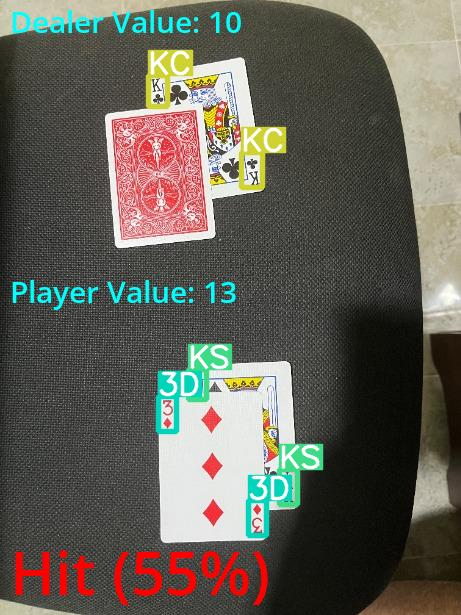
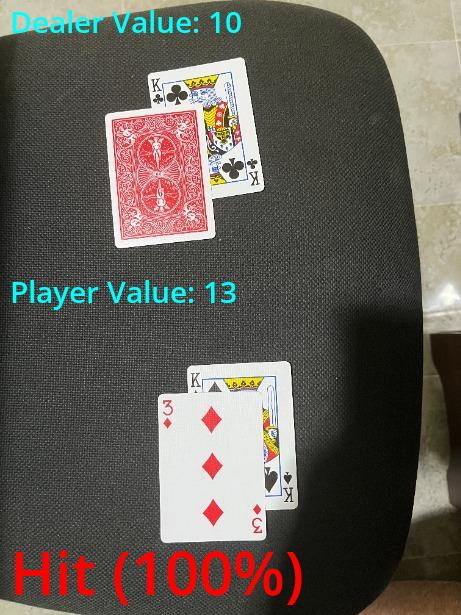
updated strategy

diff --git a/main.py b/main.py
@@ -1,9 +1,12 @@
+import shutil
+import os
+import base64
+import uuid
+import csv
+
 import flask
 from ultralytics import YOLO
 from ultralytics.yolo.v8.detect.predict import DetectionPredictor
-
-import shutil
-import os
 
 from flask import Flask, render_template, request, redirect, url_for, send_from_directory
 from flask import send_file
@@ -16,11 +19,10 @@ from PIL import Image
 from PIL import ImageDraw
 from PIL import ImageFont
 
-import base64
 
-import uuid
 
-model = YOLO("https://nitheesh.software/file/model.pt")
+
+model = YOLO("model.pt")
 # model.predict(source="2", show=True, conf=0.2)
 
 # Q: How do I see the x and y coordinates of the bounding boxes?
@@ -100,52 +102,76 @@ def predict(image):
         decision = "Blackjack!"
         percent = 100
 
-    if('A' in player_hand):
-        if(player_value >= 19):
-            decision = "Stand"
-            percent = 100
-        elif(player_value == 18 and dealer_value < 9):
-            decision = "Stand"
-            percent = 100
-        elif(player_value == 18 and dealer_value >= 9):
-            decision = "Hit"
-            percent = 100
-        else:
-            decision = "Hit"
-            percent = 100
+    # check strategy.csv for decision
+    # if player has an ace, check if it's soft or hard
 
-    else:
-        if(player_value > 11 and player_value < 17 and dealer_value >= 10):
-            # determine percentage of next card not busting
-            percent = 0
-            for card in deck:
-                if player_value + card_value(card) <= 21:
-                    percent += 1
-            percent = percent / len(deck) * 100
-            percent = round(percent)
-            if percent > 50:
-                decision = "Hit"
-            else:
-                decision = "Stand"
-                percent = 100 - percent
+    hard = False
+    for card in player_hand:
+            if card == 'A':
+                hard = False
+    
+    # open csv file
+
+    with open('strategy.csv') as csvfile:
+        reader = csv.reader(csvfile, delimiter=',')
+
+        # find the row that matches the player's hand
+        for row in reader:
+            if row[0] == str(player_value) and row[1] == str(dealer_value) and row[2].lower() == str(hard).lower():
+                decision = row[3]
+                percent = 100
+                break
+
+    # if('A' in player_hand):
+    #     if(player_value >= 19):
+    #         decision = "Stand"
+    #         percent = 100
+    #     elif(player_value == 18 and dealer_value < 9):
+    #         decision = "Stand"
+    #         percent = 100
+    #     elif(player_value == 18 and dealer_value >= 9):
+    #         decision = "Hit"
+    #         percent = 100
+    #     else:
+    #         decision = "Hit"
+    #         percent = 100
+
+    # else:
+    #     if(player_value > 11 and player_value < 17 and dealer_value >= 10):
+    #         # determine percentage of next card not busting
+    #         percent = 0
+    #         for card in deck:
+    #             if player_value + card_value(card) <= 21:
+    #                 percent += 1
+    #         percent = percent / len(deck) * 100
+    #         percent = round(percent)
+    #         if percent > 50:
+    #             decision = "Hit"
+    #         else:
+    #             decision = "Stand"
+    #             percent = 100 - percent
         
-        if(player_value >= 17):
-            decision = "Stand"
-            percent = 100
+    #     if(player_value >= 17):
+    #         decision = "Stand"
+    #         percent = 100
 
-        if(player_value <= 11):
-            decision = "Hit"
-            percent = 100
+    #     if(player_value <= 11):
+    #         decision = "Hit"
+    #         percent = 100
 
     # move predict/image0.jpg to IMG_2306.jpg
 
+    directory = 'runs/detect'
+    files = os.listdir(directory)
+    shutil.rmtree(r"runs")
 
-    img = Image.open("runs/detect/predict/"+image)
+    img = Image.open(image)
     font = ImageFont.truetype("OpenSans-Semibold.ttf", 60)
     font2 = ImageFont.truetype("OpenSans-Semibold.ttf", 30)
     draw = ImageDraw.Draw(img)
     draw.text((10, 0), "Dealer Value: " + str(dealer_value), font=font2, fill=(0, 255, 255))
     draw.text((10, 270), "Player Value: " + str(player_value), font=font2, fill=(0, 255, 255))
+    decision = decision.capitalize()
     if(decision == "Hit"):
         draw.text((10, 530), decision + " (" + str(percent) + "%)", font=font, fill=(255, 0, 0))
     else:
@@ -156,7 +182,6 @@ def predict(image):
     clone.save("predicted.jpg")
     img.close()
 
-    shutil.rmtree(r"runs")
     return clone
 
 
